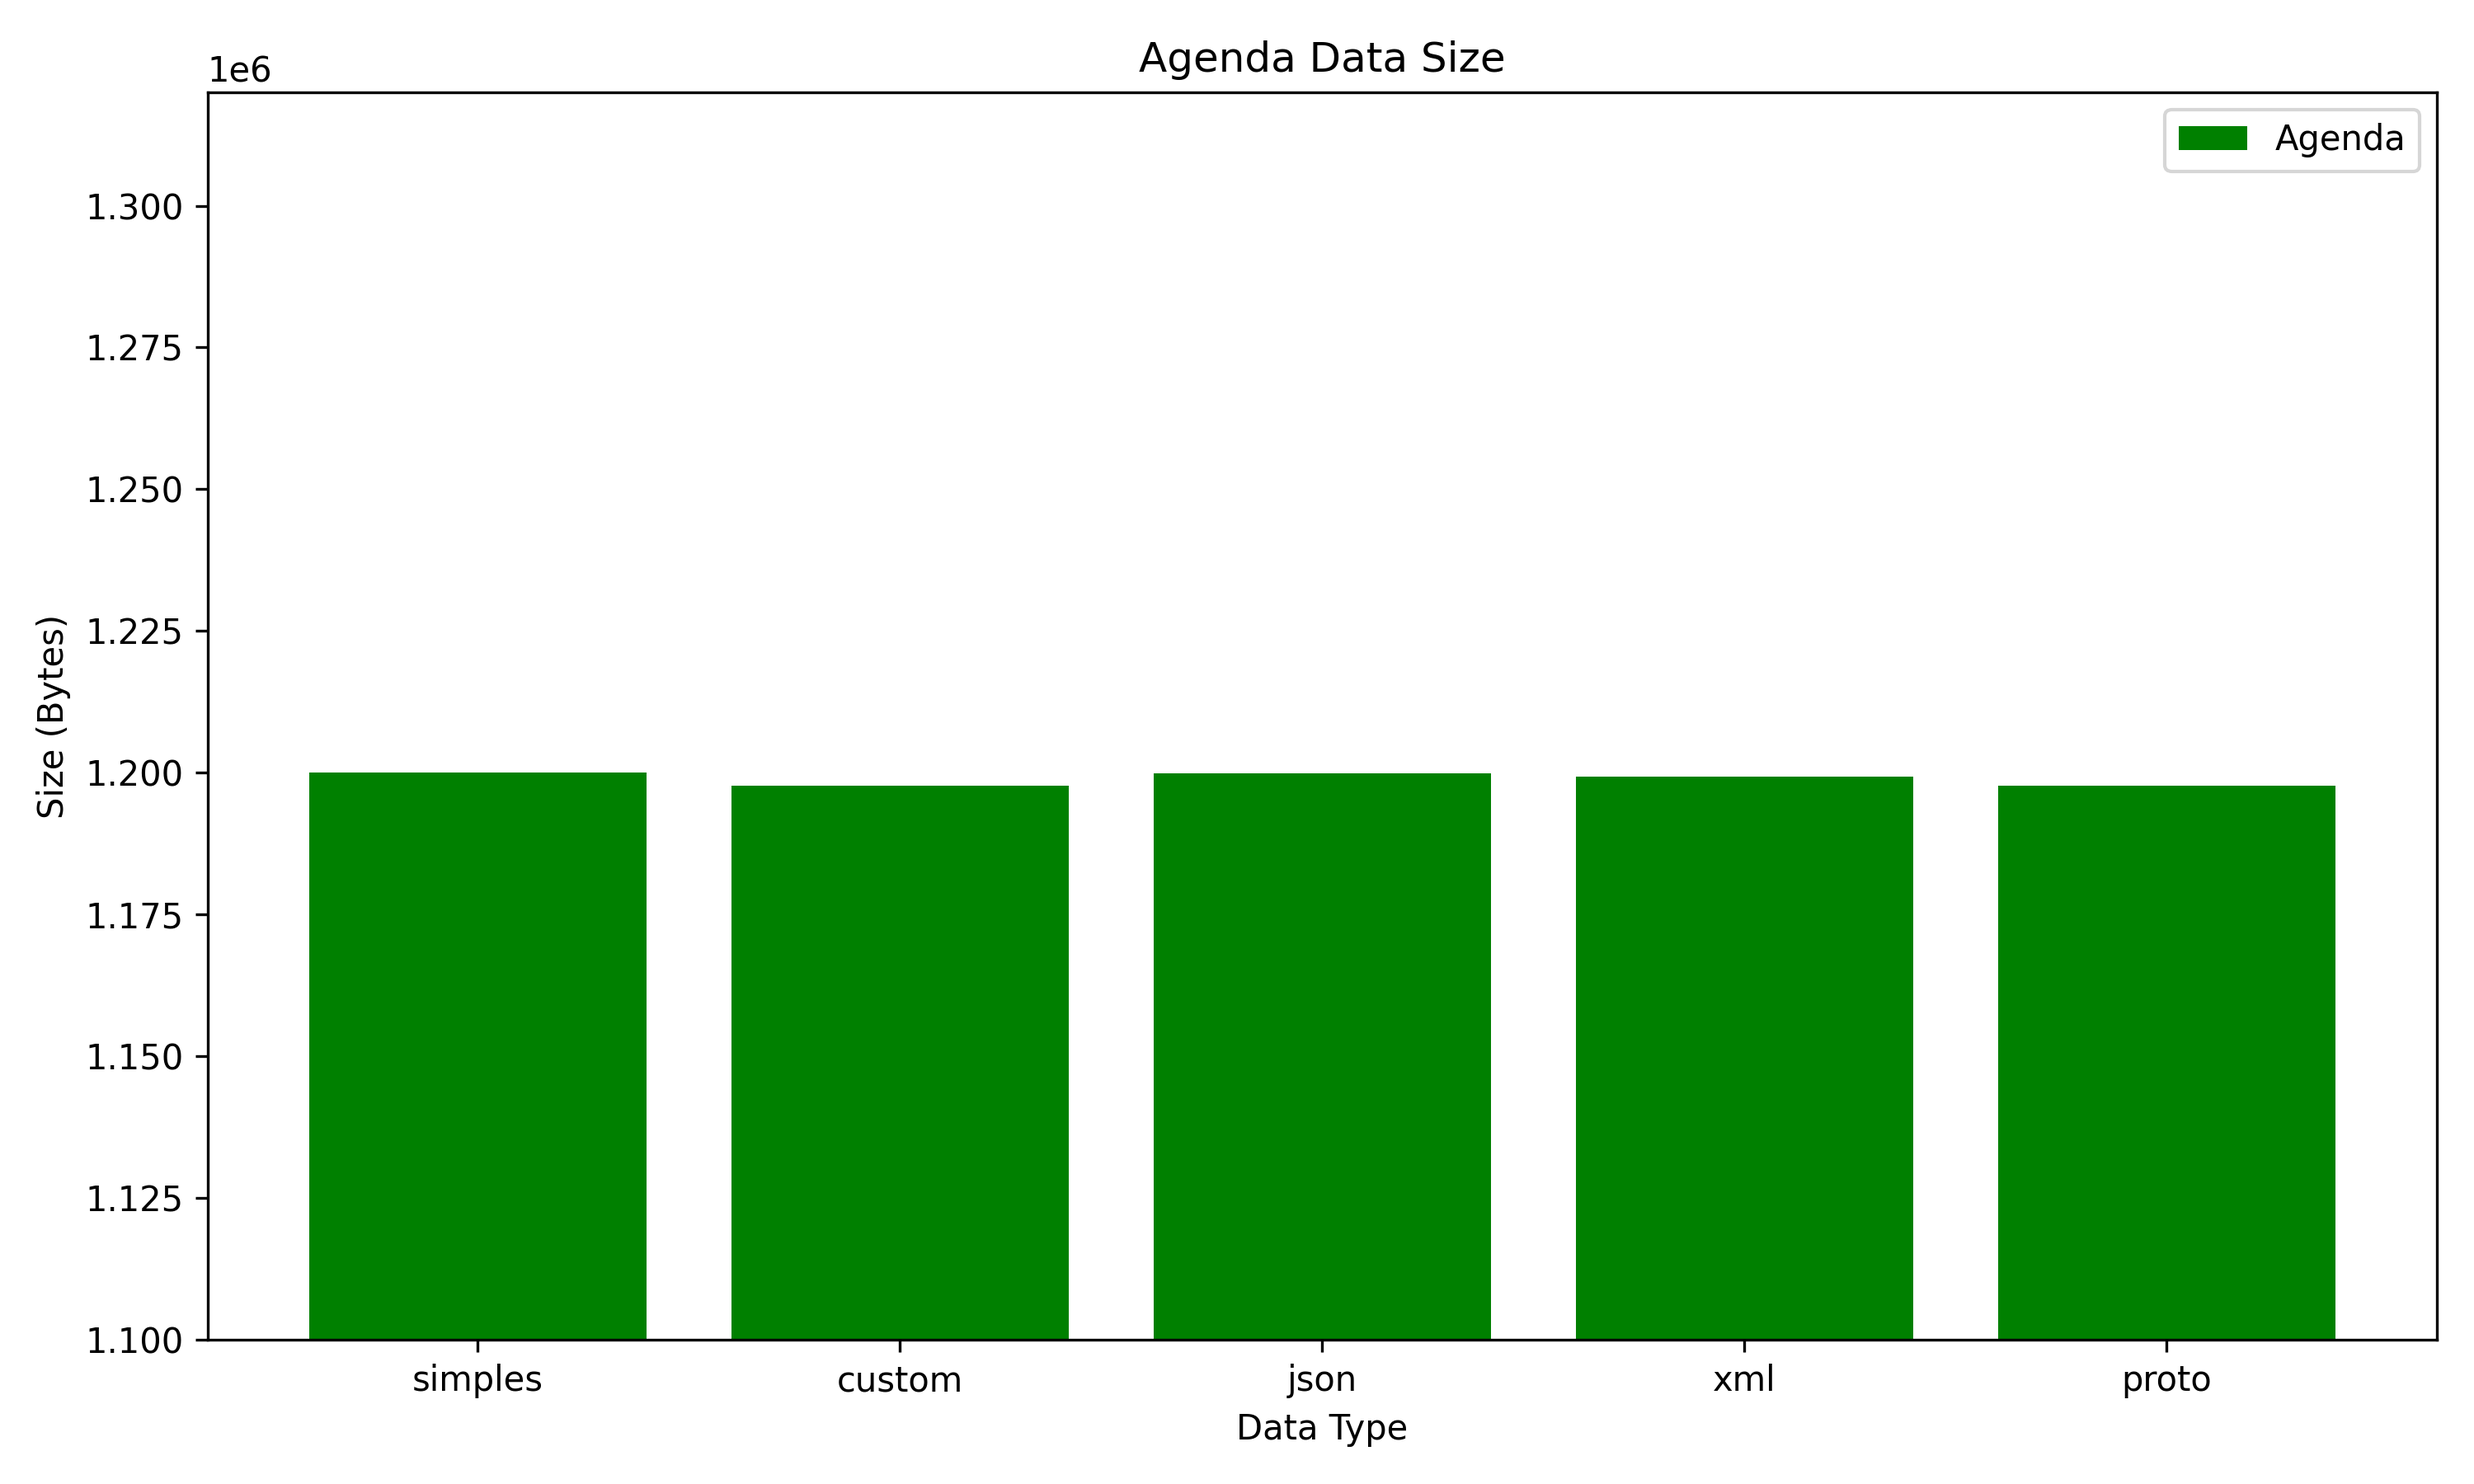
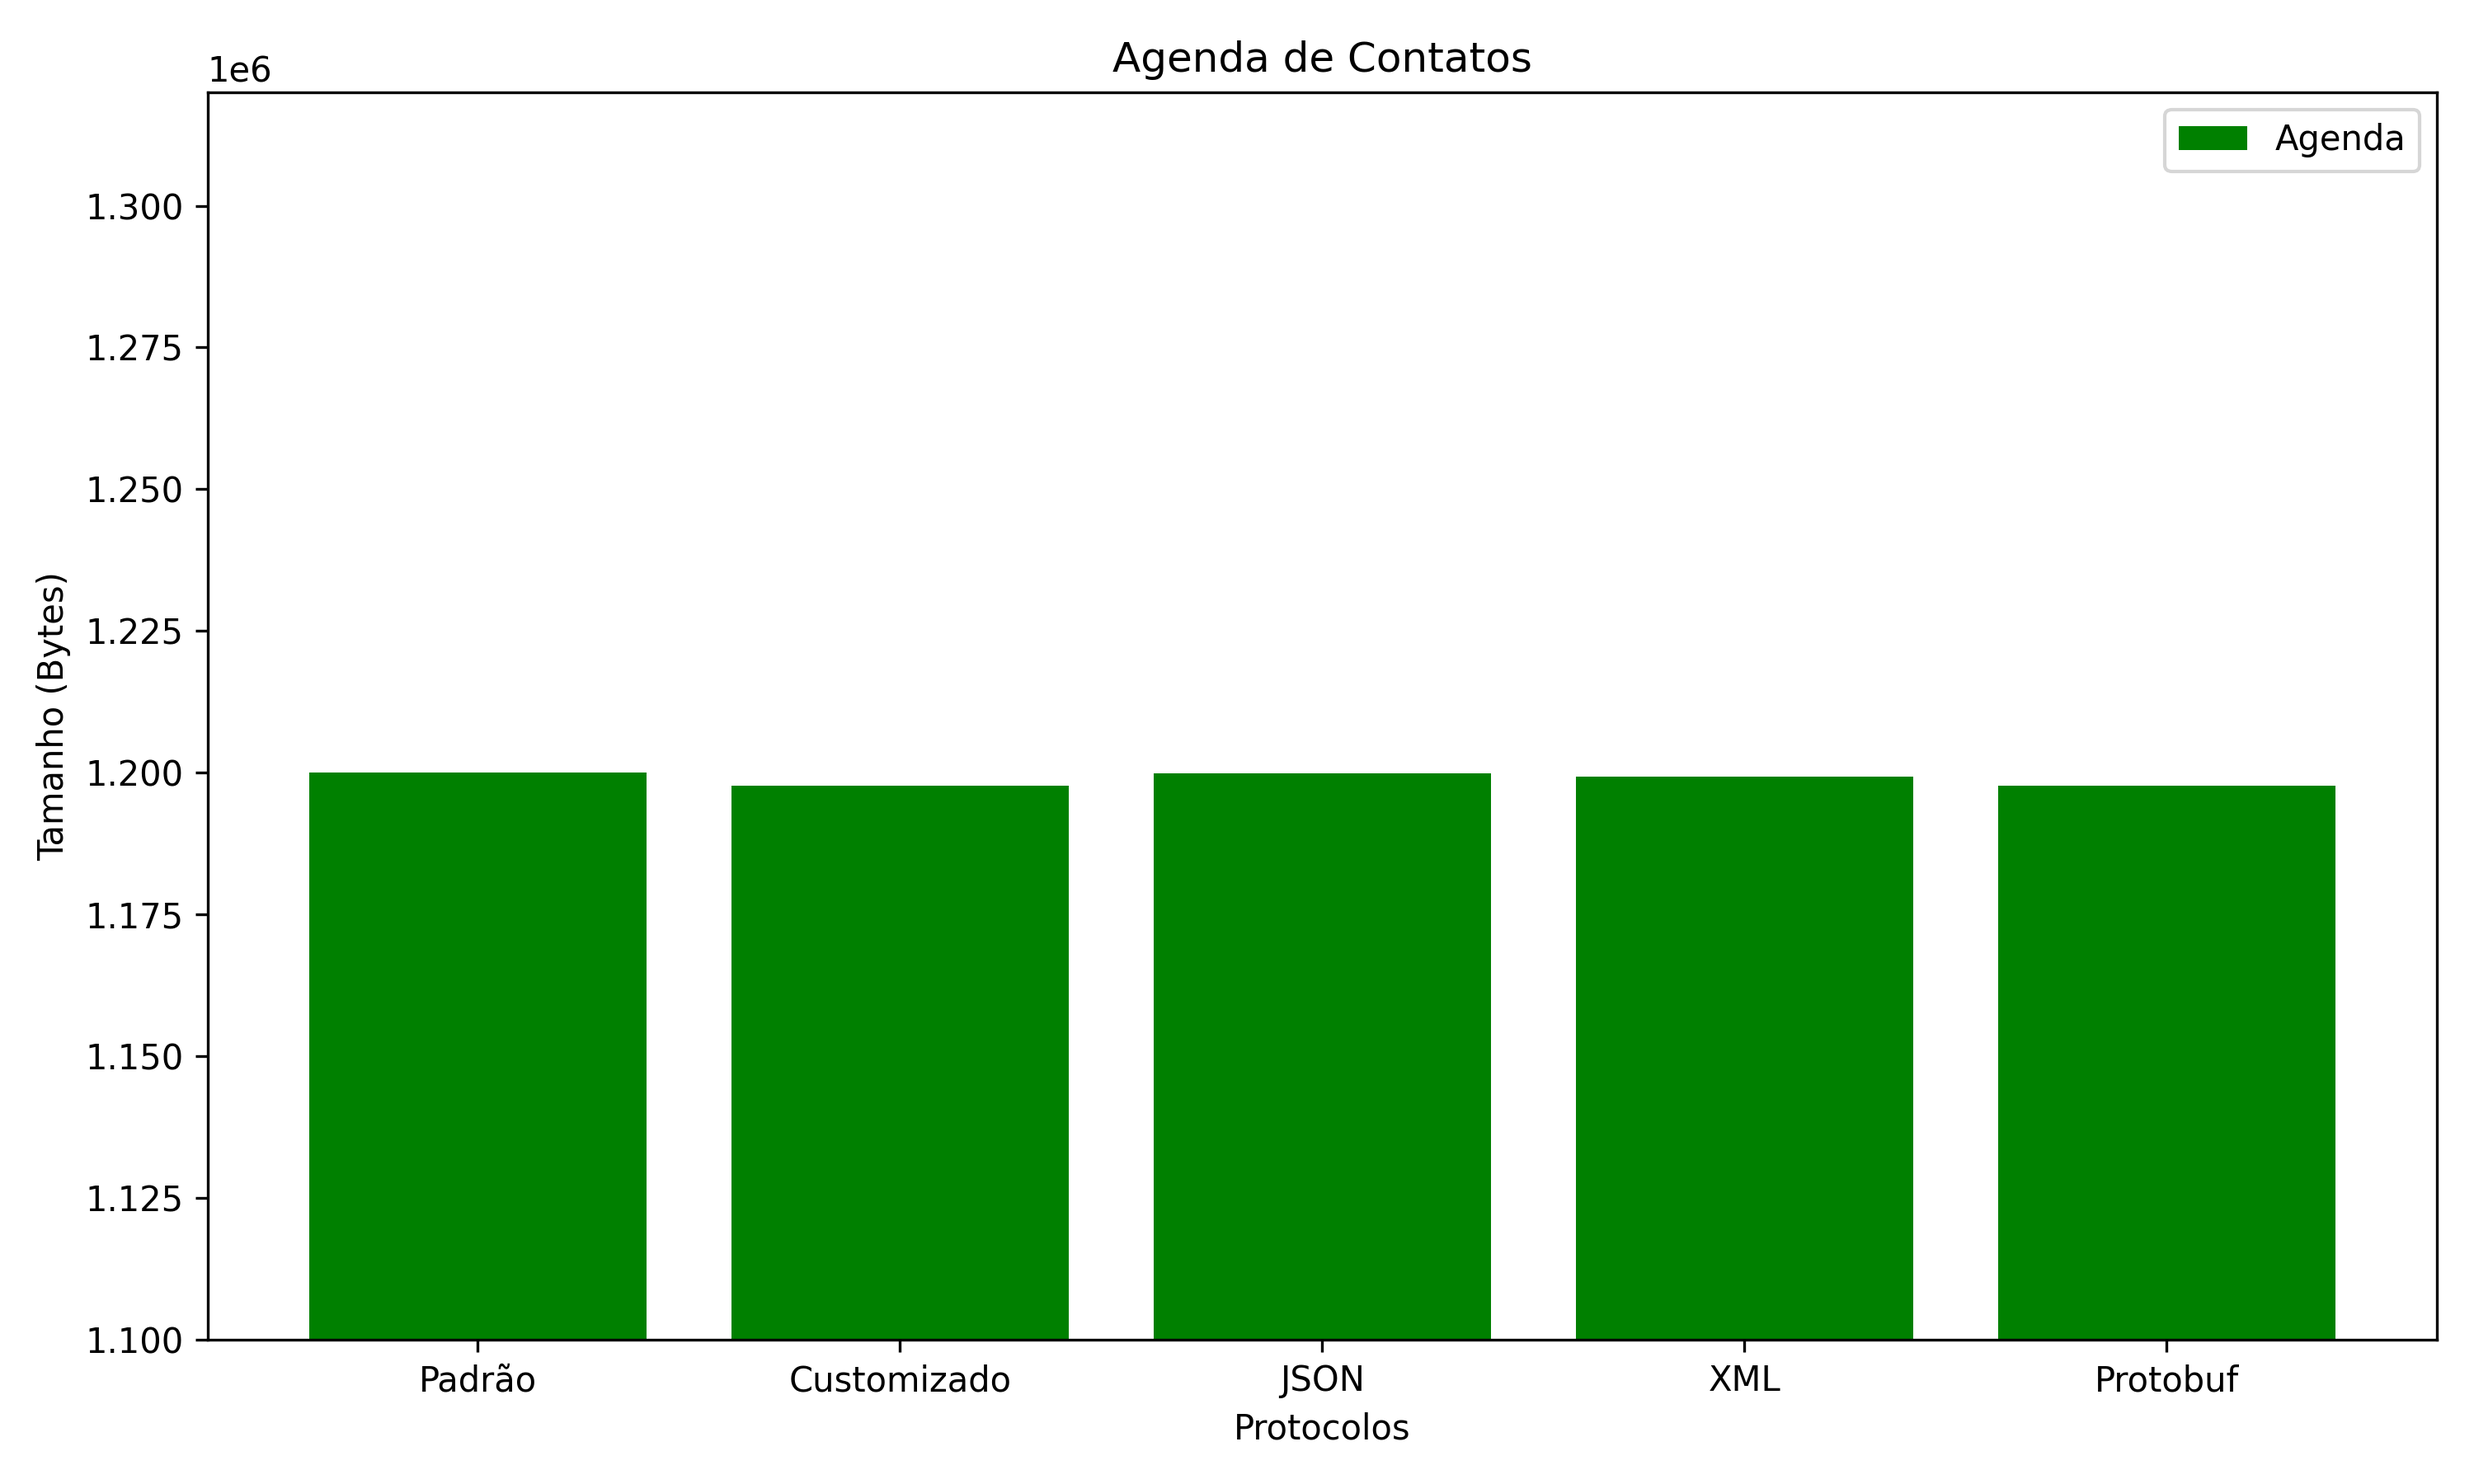
pdf_final

diff --git a/pdf/report.tex b/pdf/report.tex
@@ -75,13 +75,13 @@ Aplicou-se o mesmo procedimento de captura de pacotes em todos cenários.
 
 \subsection{Cálculo de tamanho de pacotes}
 Os pacotes do cenário que simula uma requisição de compra, possui um volume considerávelmente menor em comparação com os
-pacotes do cenário que simula uma agenda de contatos. Por isso, no primeiro cenário, foi possível calcular manualmente (com arquivos os \textit{.pcap}) a quantidade de \textit{bytes} necessária para transmitir a mensagem após serialização. No seguindo caso, porém, utilizou-se o \textit{sotware} \textit{tshark} que automatiza a leitura e operação em arquivos \textit{.pcap}.
+pacotes do cenário que simula uma agenda de contatos. Por isso, no primeiro cenário, foi possível calcular manualmente (com arquivos os \textit{.pcap}) a quantidade de \textit{bytes} necessária para transmitir a mensagem após serialização. No seguindo caso, porém, utilizou-se o sotware tshark que automatiza a leitura e operação em arquivos \textit{.pcap}.
 
 
 
 \section{Discussão dos Resultados}
 
-Após a escrita dos \textit{scripts} em Java que implementam a serialização e de posse dos arquivos \textit{.pcap} com os tamanhos dos pacotes transmitidos (em \textit{bytes}) foi possível
+Após a escrita dos scripts em Java que implementam a serialização e de posse dos arquivos \textit{.pcap} com os tamanhos dos pacotes transmitidos (em \textit{bytes}) foi possível
 gerar gráficos de barras comparativos entre os protocolos em diferentes cenários.
 
 \begin{figure}[H]
@@ -117,7 +117,7 @@ No segunda caso, Figura \ref{fig:agenda}, porém, percebe-se que para mensagens 
     \textbf{Protobuf} & 274   & -40.5\% & 1,197,724  & -0.11\% \\
     \hline
     \end{tabular}
-    \caption{Tabela de Dados de Compra e Agenda com Valores e Comparativo Percentual}
+    \caption{Tabela de cenários de lista de compra e de agenda de contatos com valores e comparativo cercentual}
     \label{tabela}
 \end{table}
 

diff --git a/pdf/bar_chart.py b/pdf/bar_chart.py
@@ -1,20 +1,18 @@
 import matplotlib.pyplot as plt
 import numpy as np
 
-# Data
-categories = ['simples', 'custom', 'json', 'xml', 'proto']
-compra_sizes = [475, 486, 499, 568, 274]  # Data for "compra"
-agenda_sizes = [1199998, 1197660, 1199956, 1199362, 1197724]  # Data for "agenda"
 
-# Bar width and positions
+categories = ['Padrão', 'Customizado', 'JSON', 'XML', 'Protobuf']
+compra_sizes = [475, 486, 499, 568, 274]  
+agenda_sizes = [1199998, 1197660, 1199956, 1199362, 1197724]  
+
 index = np.arange(len(categories))
 
-# Create and save the "Compra" plot
 fig, ax = plt.subplots(figsize=(10, 6))
 ax.bar(index, compra_sizes, color='b', label='Compra')
-ax.set_xlabel('Data Type')
-ax.set_ylabel('Size (Bytes)')
-ax.set_title('Compra Data Size')
+ax.set_xlabel('Protocolos')
+ax.set_ylabel('Tamanho (Bytes)')
+ax.set_title('Lista de Compra')
 ax.set_xticks(index)
 ax.set_xticklabels(categories)
 ax.legend()
@@ -25,9 +23,9 @@ plt.close()  # Close the plot to avoid overlapping with the next one
 # Create and save the "Agenda" plot
 fig, ax = plt.subplots(figsize=(10, 6))
 ax.bar(index, agenda_sizes, color='g', label='Agenda')
-ax.set_xlabel('Data Type')
-ax.set_ylabel('Size (Bytes)')
-ax.set_title('Agenda Data Size')
+ax.set_xlabel('Protocolos')
+ax.set_ylabel('Tamanho (Bytes)')
+ax.set_title('Agenda de Contatos')
 ax.set_xticks(index)
 ax.set_xticklabels(categories)
 ax.set_ylim(1.1e6, max(agenda_sizes) * 1.1)  # Ajustar o limite inferior do eixo Y para 1e6
